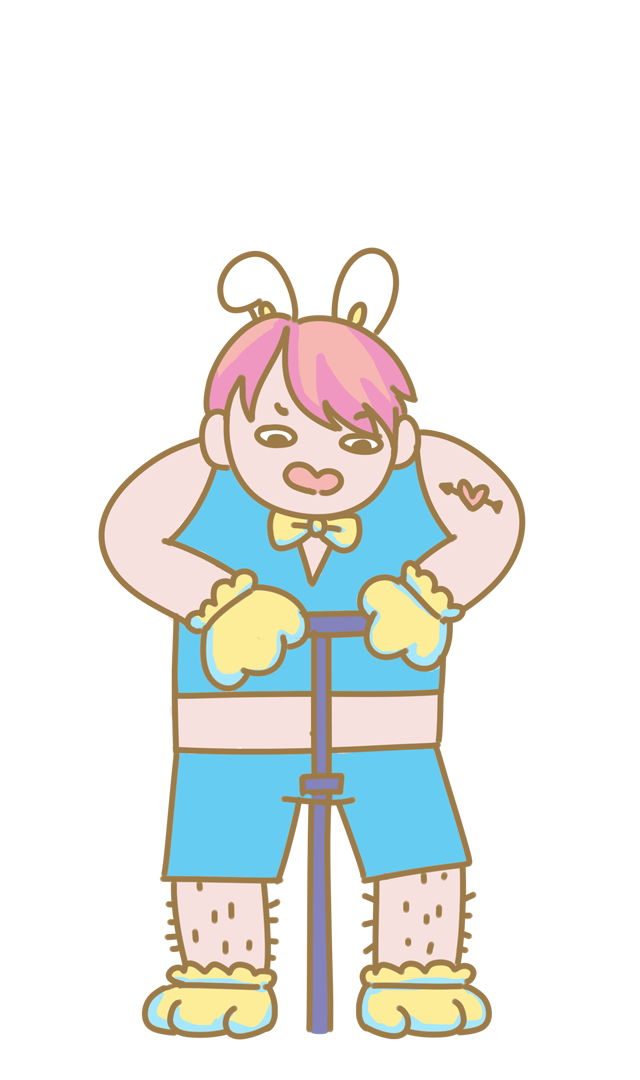
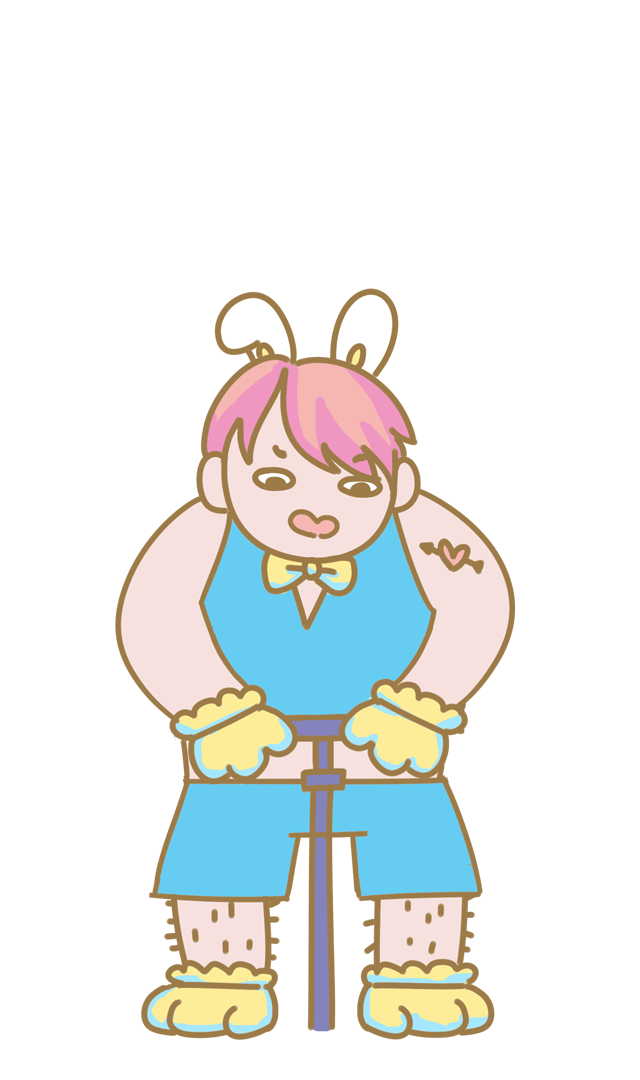
popped balloon of overpumping

Changed region(s): [[0.1562, 0.2139, 0.8438, 0.9778], [0.375, 0.9472, 0.4062, 0.9778]]

diff --git a/src/views/screen/screens/balloon.js b/src/views/screen/screens/balloon.js
@@ -19,7 +19,6 @@ export default class BalloonGame extends React.Component {
   }
 
   playMusic() {
-    console.log(this.audio);
     setTimeout(() => {
       this.audio.play();
     }, 500)
@@ -78,17 +77,33 @@ class PlayerSpace extends React.Component {
     super(props);
   }
 
+  getBalloonState() {
+    if(this.props.characterState == 3) {
+      return 'popped';
+    } else {
+      return this.props.balloonState;
+    }
+  }
+
+  getCharacterState() {
+    if(this.props.characterState == 3) {
+      return 'surprised';
+    } else {
+      return this.props.characterState;
+    }
+  }
+
   render() {
     return (
       <div id={this.props.id} className="player-space col-md-4">
         <Character
           id={this.props.id + "-character"}
-          state={this.props.characterState}
+          state={this.getCharacterState()}
           playerNum={this.props.playerNum}
         />
         <Balloon 
           id={this.props.id + "-balloon"}
-          state={this.props.balloonState}
+          state={this.getBalloonState()}
         />
       </div>
     );
@@ -98,17 +113,10 @@ class PlayerSpace extends React.Component {
 class Balloon extends React.Component {
   constructor(props) {
     super(props);
-    // this.audio = new Audio("/static/img/Sound/balloonpumping.mp3");
   }
 
-  // playAudio() {
-  //   console.log(this.audio);
-  //   this.audio.play();
-  // }
-
   getBalloonImage() {
-    let balloonNum = (this.props.state % 12) + 1;
-    // this.playAudio();
+    let balloonNum = (this.props.state + 1);
     return "/static/img/balloon/" + balloonNum + ".png";
   }
 
@@ -136,11 +144,7 @@ class Character extends React.Component {
   }
 
   getCharacterImage() {
-    if(this.props.state === 0) {
-      return "/static/img/Character/" + this.props.playerNum + "/1.png";
-    } else {
-      return "/static/img/Character/" + this.props.playerNum + "/3.png";
-    }
+    return "/static/img/Character/" + this.props.playerNum + "/" + this.props.state + ".png";
   }
 
   render() {

diff --git a/src/games/balloon.js b/src/games/balloon.js
@@ -4,9 +4,9 @@ class BalloonGame {
     this.screen = screen;
     this.endCallback = endCallback;
     this.playerScore = [];
-    this.balloonMaxThreshold = 12;
+    this.balloonMaxThreshold = 11;
     this.balloonIncrementVal = 2;
-    this.freezeDuration = 1;
+    this.freezeDuration = 5;
     this.initPlayerData();
   }
 
@@ -34,7 +34,10 @@ class BalloonGame {
 
   playerPumpUpEvent(msg) {
     let id = msg.id - 1;
-    this.playerScore[id].characterState = 0;
+    let currTimestamp = new Date() / 1000;
+    if(currTimestamp >= this.playerScore[id].freezeUntil) {
+      this.playerScore[id].characterState = 0;
+    }
     this.updateScreenState();
   }
 
@@ -44,6 +47,8 @@ class BalloonGame {
 
     if(currTimestamp >= this.playerScore[id].freezeUntil) {
       this.playerScore[id].balloonState += this.balloonIncrementVal;
+    } else {
+      return;
     }
 
     if(this.playerScore[id].balloonState <= this.balloonMaxThreshold) {
